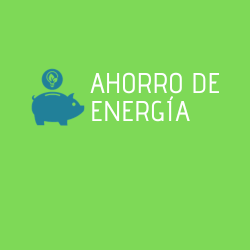
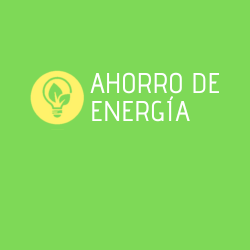
Se agregaron imagenes y texto

Changed region(s): [[0.112, 0.252, 0.336, 0.504]]

diff --git a/PagWeb/index.html b/PagWeb/index.html
@@ -194,249 +194,77 @@
         <div class="col-lg-12">
             <ul id="og-grid" class="og-grid">
               <li>
-              <a href="#" data-largesrc="img/works/2.jpg" data-title="Portfolio title" data-description="Mea an eros periculis dignissim, quo mollis nostrum elaboraret et. Id quem perfecto mel, no etiam perfecto qui. No nisl legere recusabo nam, ius an tale pericula evertitur, dicat phaedrum qui in. Usu numquam legendos in, voluptaria sadipscing ut vel. Eu eum mandamus volutpat gubergren, eos ad detracto nominati, ne eum idque elitr aliquam.">
+              <a href="#" data-largesrc="img/works/1.Calidad.png" data-title="Mediciones de calidad de la energía" data-description="
+                1. Corrientes
+                2. Tensiones
+                3. Potencias (Red, Reactivos)
+                4. Factor de Potencia
+                5. Distorisión armónico de voltaje y corrientes
+                6. Frecuencia
+                7. Flicker
+                8. Desbalances
+                9. Sags y Swells
+              * Evaluación de cumplimiento de código de red.
+              * Plan de trabajo">
                 <img src="img/works/thumbs/CRCE.png" alt="" />
               </a>
               </li>
             </ul>
             <ul id="og-grid" class="og-grid">
               <li>
-                <a href="#" data-largesrc="img/works/2.jpg" data-title="Portfolio title" data-description="Mea an eros periculis dignissim, quo mollis nostrum elaboraret et. Id quem perfecto mel, no etiam perfecto qui. No nisl legere recusabo nam, ius an tale pericula evertitur, dicat phaedrum qui in. Usu numquam legendos in, voluptaria sadipscing ut vel. Eu eum mandamus volutpat gubergren, eos ad detracto nominati, ne eum idque elitr aliquam.">
+                <a href="#" data-largesrc="img/works/6.tutoriales.png" data-title="Cursos de Capacitación" data-description="1. Código de Red
+                2. Calidad de la Energía
+                3. Corto Circuito
+                4. Coordinación de Protecciones
+                5. Arco Eléctrico
+                6. Arranque de Motores
+                7. Flujos de Potencia
+                8. Sistema de Tierras">
                   <img src="img/works/thumbs/CC.png" alt="" />
                 </a>
               </li>
               <li>
-                <a href="#" data-largesrc="img/works/2.jpg" data-title="Portfolio title" data-description="Mea an eros periculis dignissim, quo mollis nostrum elaboraret et. Id quem perfecto mel, no etiam perfecto qui. No nisl legere recusabo nam, ius an tale pericula evertitur, dicat phaedrum qui in. Usu numquam legendos in, voluptaria sadipscing ut vel. Eu eum mandamus volutpat gubergren, eos ad detracto nominati, ne eum idque elitr aliquam.">
+                <a href="#" data-largesrc="img/works/5.ahorro de energia.png" data-title="Proyectos de ahorro de energía" data-description="1. Sistemas de iluminación
+              2. Motores eléctricos
+              3. Aire acondicionado">
                   <img src="img/works/thumbs/AE.png" alt="" />
                 </a>
               </li>
             </ul>
             <ul id="og-grid" class="og-grid">
               <li>
-                <a href="#" data-largesrc="img/works/2.jpg" data-title="Portfolio title" data-description="Mea an eros periculis dignissim, quo mollis nostrum elaboraret et. Id quem perfecto mel, no etiam perfecto qui. No nisl legere recusabo nam, ius an tale pericula evertitur, dicat phaedrum qui in. Usu numquam legendos in, voluptaria sadipscing ut vel. Eu eum mandamus volutpat gubergren, eos ad detracto nominati, ne eum idque elitr aliquam.">
+                <a href="#" data-largesrc="img/works/4.Suministro e Instalacion4-iluminacion.png" data-title="Suministro e instalación" data-description="1. Estudio de sistema de tierra
+              2. Estudio y modelado de sistemas de pararrayos
+              3. Estudio y modelado de sistemas de iluminación
+              4. Desarrollo de ingeniería para dimensionamiento de instalaciones eléctricas (Conductores, Tubería, Transformadores, Tableros, Etc.)
+              5. Instalación de Sistema de tierras
+              6. Instalación de sistema de pararrayos
+              7. Instalaciones eléctricas (Tubería, tableros transformadores, ilumación, equipos eléctricos, CCM, control de alumbrado, Etc.)
+              8. qxInstalación y comisionamiento de instrumentos de medición de proceso (Válvulas de control y ON-OFF, Detector de gas, Instrumentos de Presión, Nivel, Flujo Temperatura, Filtros, Manifold, Etc.)">
                   <img src="img/works/thumbs/SeI.png" alt="" />
                 </a>
               </li>
               <li>
-                <a href="#" data-largesrc="img/works/2.jpg" data-title="Portfolio title" data-description="Mea an eros periculis dignissim, quo mollis nostrum elaboraret et. Id quem perfecto mel, no etiam perfecto qui. No nisl legere recusabo nam, ius an tale pericula evertitur, dicat phaedrum qui in. Usu numquam legendos in, voluptaria sadipscing ut vel. Eu eum mandamus volutpat gubergren, eos ad detracto nominati, ne eum idque elitr aliquam.">
+                <a href="#" data-largesrc="img/works/3.Pruebas a Equipos2 - Relevador.png" data-title="Pruebas a equipos eléctricos y protecciones eléctricas" data-description="1.Programación y ajustes de protecciones eléctricos
+              2. Pruebas sobre corriente a relevadores e interruptores
+              3. Pruebas de transformadores
+              4. Pruebas de motores">
                   <img src="img/works/thumbs/PEEPE.png" alt="" />
                 </a>
               </li>
               <li>
-                <a href="#" data-largesrc="img/works/2.jpg" data-title="Portfolio title" data-description="Mea an eros periculis dignissim, quo mollis nostrum elaboraret et. Id quem perfecto mel, no etiam perfecto qui. No nisl legere recusabo nam, ius an tale pericula evertitur, dicat phaedrum qui in. Usu numquam legendos in, voluptaria sadipscing ut vel. Eu eum mandamus volutpat gubergren, eos ad detracto nominati, ne eum idque elitr aliquam.">
+                <a href="#" data-largesrc="img/works/2.Estudios electricos-corto circuito.png" data-title="Estudios Eléctricos" data-description="1.Corto circuitos
+              2. Flujos de potencia
+              3. Coordinación de protecciones
+              4. Arco eléctrico
+              5. Dimensionamiento de generador y transformadores
+              6. Estabilidad transitoria
+              7. Arranque de motores
+              8. Modelado de sistema de tierras y pararrayos">
                   <img src="img/works/thumbs/EE.png" alt="" />
                 </a>
               </li>
             </ul>
-
-          <!-- ESTE CÓDIGO SE ELIMINA, SOLO ESTA PARA TENER LA INFO-->
-          <div id="carousel-service" class="service carousel slide">
-
-            <!-- slides -->
-            <div class="carousel-inner">
-              <div class="item active">
-                <div class="row">
-                  <div class="col-sm-12 col-md-offset-1 col-md-6">                  
-                    <div>
-                      <!--HOJA 1 -->
-                      <h4>Mediciones de calidad de la energía</h4>                      
-                      <ul class="text-left">
-                        <ul>
-                            <li type="disc">
-                              Corrientes
-                            </li>
-                            <li type="disc">
-                              Tensiones
-                            </li>
-                            <li type="disc">
-                              Potencias (Red, Reactivos)
-                            </li>
-                            <li type="disc">
-                              Factor de Potencia
-                            </li>
-                            <li type="disc">
-                              Distorisión armónico de voltaje y corrientes
-                            </li>
-                            <li type="disc">
-                              Frecuencia
-                            </li>
-                            <li type="disc">
-                              Flicker
-                            </li>
-                            <li type="disc">
-                              Desbalances
-                            </li>
-                            <li type="disc">
-                              Sags y Swells
-                            </li>                            
-                          </ul>
-                        <li type="circle">
-                            Evaluación de Cumplimiento de Código de Red. 
-                        </li>
-                        <li type="circle">
-                            Plan de Trabajo 
-                          </li>
-                      </ul>
-                    </div>
-                  </div>
-                  <div class="col-sm-12 col-md-5">
-                    <div class="screenshot">
-                      <img src="img/screenshots/1.png" class="img-responsive" alt="" />
-                    </div>
-                  </div>
-                </div>
-              </div>
-              <div class="item">
-                <div class="row">
-                  <div class="col-sm-12 col-md-offset-1 col-md-6">
-                    <div>
-                    <!-- HOJA 2 -->
-                      <h4>Estudios Eléctricos </h4>
-                        <ul class="text-left"> 
-                          <li type="disc">
-                            Corto circuitos
-                          </li>
-                          <li type="disc">
-                            Flujos de potencia
-                          </li>
-                          <li type="disc">
-                            Coordinación de protecciones
-                          </li>
-                          <li type="disc">
-                            Arco eléctrico
-                          </li>
-                          <li type="disc">
-                            Dimensionamiento de generador y transformadores
-                          </li>
-                          <li type="disc">
-                            Estabilidad transitoria
-                          </li>
-                          <li type="disc">
-                            Arranque de motores
-                          </li>
-                          <li type="disc">
-                            Modelado de sistema de tierras y pararrayos
-                          </li>
-                        </ul>                      
-                    </div>
-                  </div>
-                  <div class="col-sm-12 col-md-5">
-                    <div class="screenshot">
-                      <img src="img/screenshots/2.png" class="img-responsive" alt="" />
-                    </div>
-                  </div>
-                </div>
-              </div>
-
-              <div class="item">
-                <div class="row">
-                  <div class="col-sm-12 col-md-offset-1 col-md-6">
-                    <div>
-                    <!-- HOJA 3-->
-                      <h4>Pruebas a equipos eléctricos y protecciones eléctricas</h4>               
-                        <ul class="text-left">
-                          <li type="disc">
-                            Programación y ajustes de protecciones eléctricos
-                          </li>
-                          <li type="disc">
-                            Pruebas sobre corriente a relevadores e interruptores
-                          </li>
-                          <li type="disc">
-                            Pruebas de transformadores
-                          </li>
-                          <li type="disc">
-                            Pruebas de motores
-                          </li>
-                        </ul>
-                    </div>
-                  </div>
-                  <div class="col-sm-12 col-md-5">
-                    <div class="screenshot">
-                      <img src="img/screenshots/3.png" class="img-responsive" alt="" />
-                    </div>
-                  </div>
-                </div>
-              </div>
-
-               <div class="item">
-                <div class="row">
-                  <div class="col-sm-12 col-md-offset-1 col-md-6">
-                    <div>
-                      <h4>Suministro e instalación</h4>
-                      <ul class="text-left">
-                          <li type="disc">
-                            Estudio de sistema de tierra
-                          </li>
-                          <li type="disc">
-                            Estudio y modelado de sistemas de pararrayos
-                          </li>
-                          <li type="disc">
-                            Estudio y modelado de sistemas de iluminación
-                          </li>
-                          <li type="disc">
-                            Desarrollo de ingeniería para dimensionamiento de instalaciones eléctricas (Conductores, Tubería, Transformadores, Tableros, Etc.)
-                          </li>
-                          <li type="disc">
-                            Instalación de Sistema de tierras
-                          </li>                          
-                          <li type="disc">
-                            Instalación de sistema de pararrayos
-                          </li>
-                          <li type="disc">
-                            Instalaciones eléctricas (Tubería, tableros transformadores, ilumación, equipos eléctricos, CCM, control de alumbrado, Etc.)
-                          </li>
-                          <li type="disc">
-                            Instalación y comisionamiento de instrumentos de medición de proceso (Válvulas de control y ON-OFF, Detector de gas, Instrumentos de Presión, Nivel, Flujo Temperatura, Filtros, Manifold, Etc.)
-                          </li>
-                      </ul>
-                    </div>
-                  </div>
-                  <div class="col-sm-12 col-md-5">
-                    <div class="screenshot">
-                      <img src="img/screenshots/4.png" class="img-responsive" alt="" />
-                    </div>
-                  </div>
-                </div>
-              </div>
-
-              <div class="item">
-                <div class="row">
-                  <div class="col-sm-12 col-md-offset-1 col-md-6">
-                    <div >
-                      <h4>Proyectos de ahorro de energía</h4>
-                      <ul class="text-left">
-                          <li type="disc">
-                            Sistemas de iluminación
-                          </li>
-                          <li type="disc">
-                            Motores eléctricos
-                          </li>
-                          <li type="disc">
-                            Aire acondicionado
-                          </li>                          
-                      </ul>
-                    </div>
-                  </div>
-                  <div class="col-sm-12 col-md-5">
-                    <div class="screenshot">
-                      <img src="img/screenshots/5.png" class="img-responsive" alt="" />
-                    </div>
-                  </div>
-                </div>
-              </div>
-
-            </div>
-
-            <!-- Indicators -->
-            <ol class="carousel-indicators">
-              <li data-target="#carousel-service" data-slide-to="0" class="active"></li>
-              <li data-target="#carousel-service" data-slide-to="1"></li>
-              <li data-target="#carousel-service" data-slide-to="2"></li>
-              <li data-target="#carousel-service" data-slide-to="3"></li>
-              <li data-target="#carousel-service" data-slide-to="4"></li>
-              
-            </ol>
-          </div>
         </div>
       </div>
     </div>
